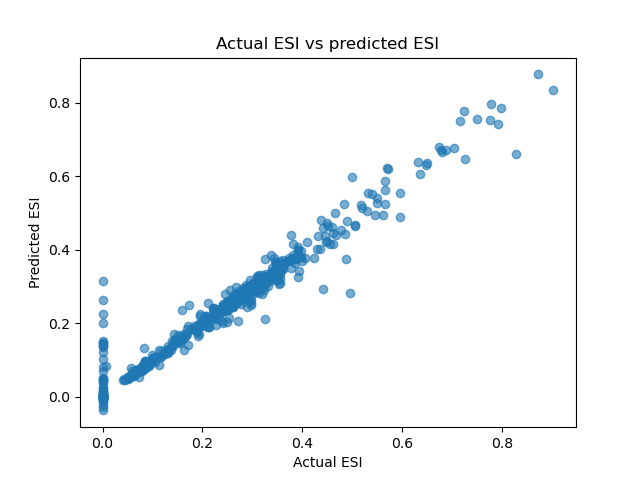
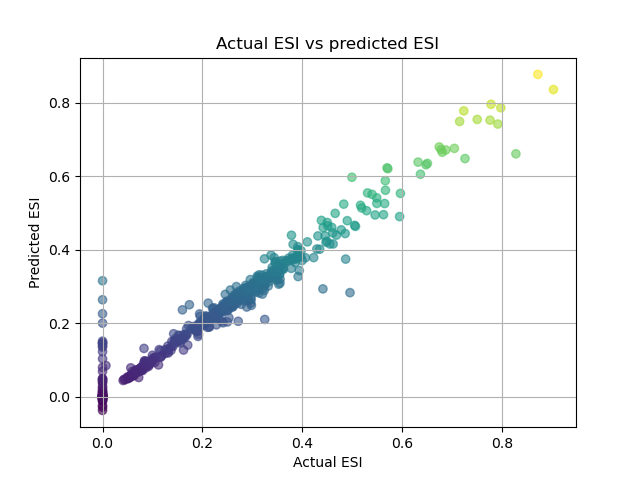
docs: correct relative file path mapping for repository visuals

diff --git a/source/preprocessing_in.py b/source/preprocessing_in.py
@@ -143,6 +143,7 @@ def features_engineering(input_df):
         if col not in input_df.columns:
             input_df[col]=0
 
+    input_df=input_df[final_features]
 
     numerical_cols = input_df.select_dtypes(include=['number']).columns
 

diff --git a/README.md b/README.md
@@ -2,60 +2,60 @@
 ### Machine Learning Framework for Exoplanet Habitability Classification and Earth Similarity Prediction
 
 ## Overview
-PHIS (Planetary Habitability Intelligence System) is an astronomy-focused machine learning project designed to evaluate exoplanets for potential habitability and predict their Earth Similarity Index (ESI) using astrophysical, planetary, orbital, and stellar parameters.
+[cite_start]PHIS (Planetary Habitability Intelligence System) is an astronomy-focused machine learning project designed to evaluate exoplanets for potential habitability and predict their Earth Similarity Index (ESI) using astrophysical, planetary, orbital, and stellar parameters[cite: 307].
 
-By integrating NASA Exoplanet Archive data with Planetary Habitability Laboratory (PHL) datasets, PHIS creates a robust predictive framework capable of:
+[cite_start]By integrating NASA Exoplanet Archive data with Planetary Habitability Laboratory (PHL) datasets, PHIS creates a robust predictive framework capable of[cite: 308]:
 
-- Classifying whether an exoplanet is potentially habitable
-- Predicting Earth Similarity Index (ESI)
-- Engineering scientific features using astrophysical formulas
-- Simulating real-world planetary habitability analysis
+- [cite_start]Classifying whether an exoplanet is potentially habitable [cite: 309]
+- [cite_start]Predicting Earth Similarity Index (ESI) [cite: 309]
+- [cite_start]Engineering scientific features using astrophysical formulas [cite: 309]
+- [cite_start]Simulating real-world planetary habitability analysis [cite: 309]
 
-This project combines data science, astronomy, and machine learning into a portfolio-grade scientific system.
+[cite_start]This project combines data science, astronomy, and machine learning into a portfolio-grade scientific system[cite: 309].
 
 ---
 
 ## Key Features
 
 ### Data Integration
-- NASA Exoplanet Archive dataset
-- Planetary Habitability Laboratory (PHL) dataset
-- Cross-dataset feature merging using cleaned planetary identifiers
+- [cite_start]NASA Exoplanet Archive dataset [cite: 310]
+- [cite_start]Planetary Habitability Laboratory (PHL) dataset [cite: 310]
+- [cite_start]Cross-dataset feature merging using cleaned planetary identifiers [cite: 310]
 
 ### Advanced Feature Engineering
-PHIS calculates critical astrophysical features including:
+[cite_start]PHIS calculates critical astrophysical features including[cite: 310]:
 
-- Orbital Period (Kepler’s Third Law)
-- Stellar Flux
-- Equilibrium Temperature
-- Periastron & Apastron distances
-- Effective orbital distance
-- Stellar surface gravity (log g)
-- Conservative and optimistic habitable zone boundaries
-- Abiogenesis zone estimation
-- Tidal locking probability
-- Planet type classification (Terran, SuperTerran, Neptunian, Jovian)
+- [cite_start]Orbital Period (Kepler’s Third Law) [cite: 310]
+- [cite_start]Stellar Flux [cite: 310]
+- [cite_start]Equilibrium Temperature [cite: 310]
+- [cite_start]Periastron & Apastron distances [cite: 310]
+- [cite_start]Effective orbital distance [cite: 310]
+- [cite_start]Stellar surface gravity (log g) [cite: 310]
+- [cite_start]Conservative and optimistic habitable zone boundaries [cite: 310]
+- [cite_start]Abiogenesis zone estimation [cite: 310]
+- [cite_start]Tidal locking probability [cite: 311]
+- [cite_start]Planet type classification (Terran, SuperTerran, Neptunian, Jovian) [cite: 311]
 
 ### Machine Learning Models
 #### Habitability Classification:
-- XGBoost Classifier
-- SMOTE for class imbalance correction
-- High recall optimization for habitable planets
+- [cite_start]XGBoost Classifier [cite: 312]
+- [cite_start]SMOTE for class imbalance correction [cite: 312]
+- [cite_start]High recall optimization for habitable planets [cite: 312]
 
 #### ESI Prediction:
-- XGBoost Regressor
-- Regression analysis for Earth similarity scoring
+- [cite_start]XGBoost Regressor [cite: 312]
+- [cite_start]Regression analysis for Earth similarity scoring [cite: 312]
 
 ### Performance
 #### Classification:
-- Accuracy: ~99.6%
-- High recall for habitable class
-- Strong macro F1 score
+- [cite_start]Accuracy: ~99.6% [cite: 312]
+- [cite_start]High recall for habitable class [cite: 312]
+- [cite_start]Strong macro F1 score [cite: 312]
 
 #### Regression:
-- R² Score: ~0.94
-- Low MAE
-- Reliable ESI prediction consistency
+- [cite_start]R² Score: ~0.94 [cite: 312]
+- [cite_start]Low MAE [cite: 312]
+- [cite_start]Reliable ESI prediction consistency [cite: 312]
 
 ---
 
@@ -85,7 +85,6 @@ PHIS/
 │── README.md
 └── .gitignore
 ```
-
 ---
 
 ## Installation